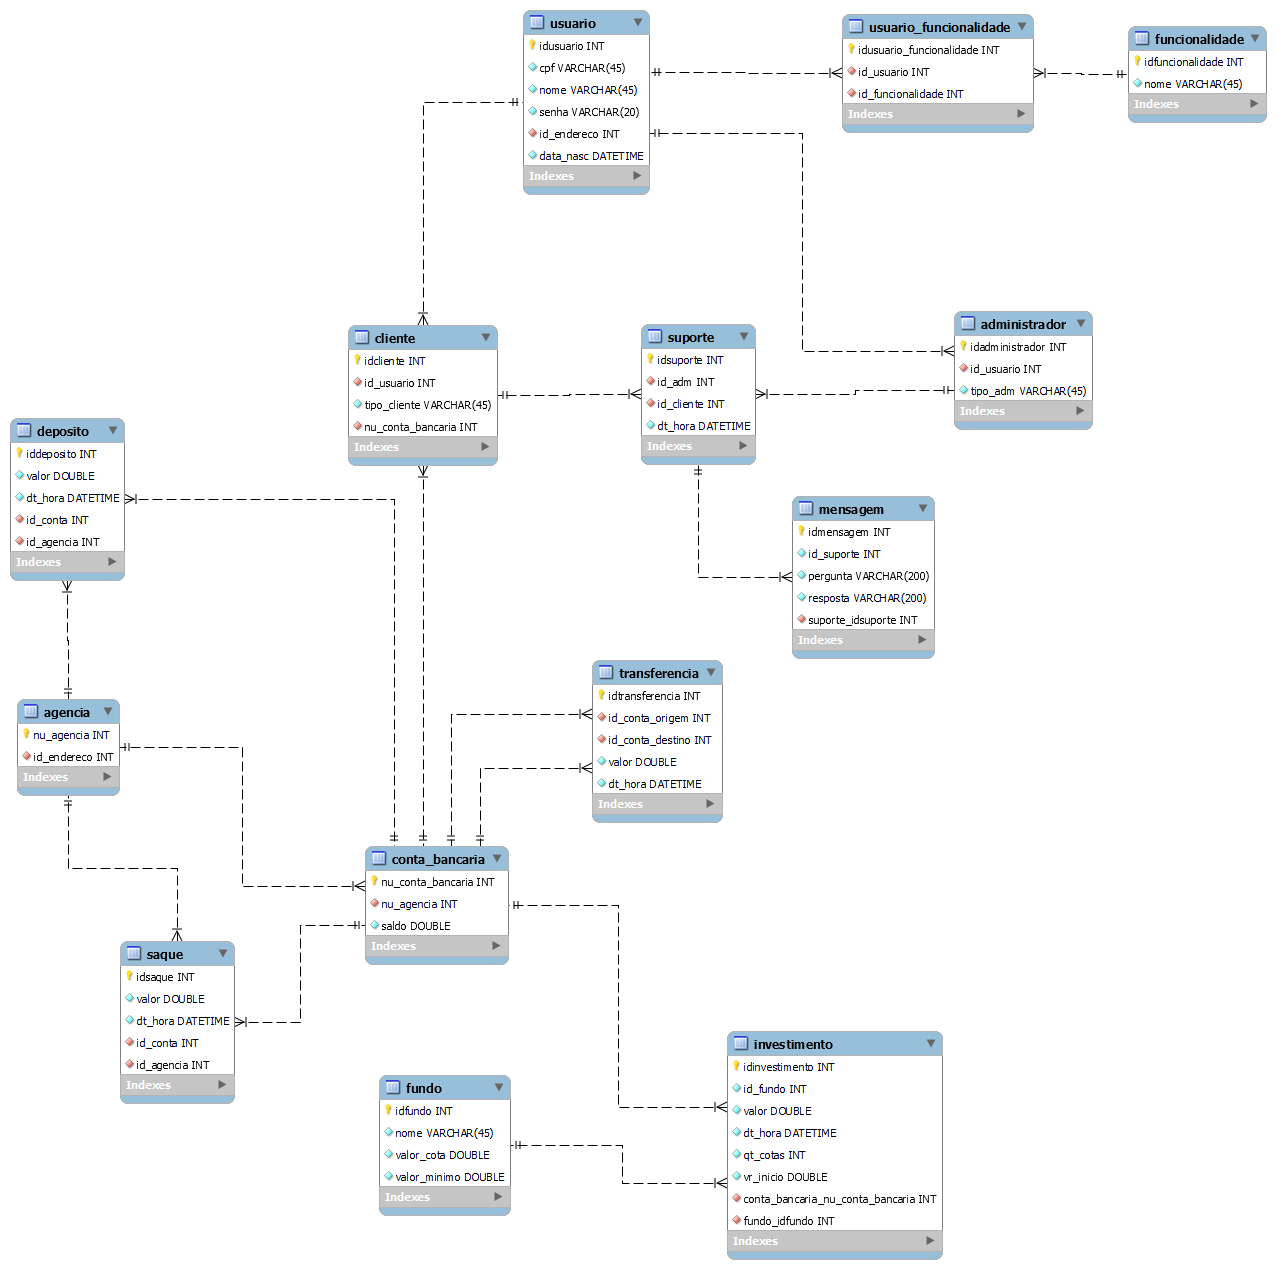
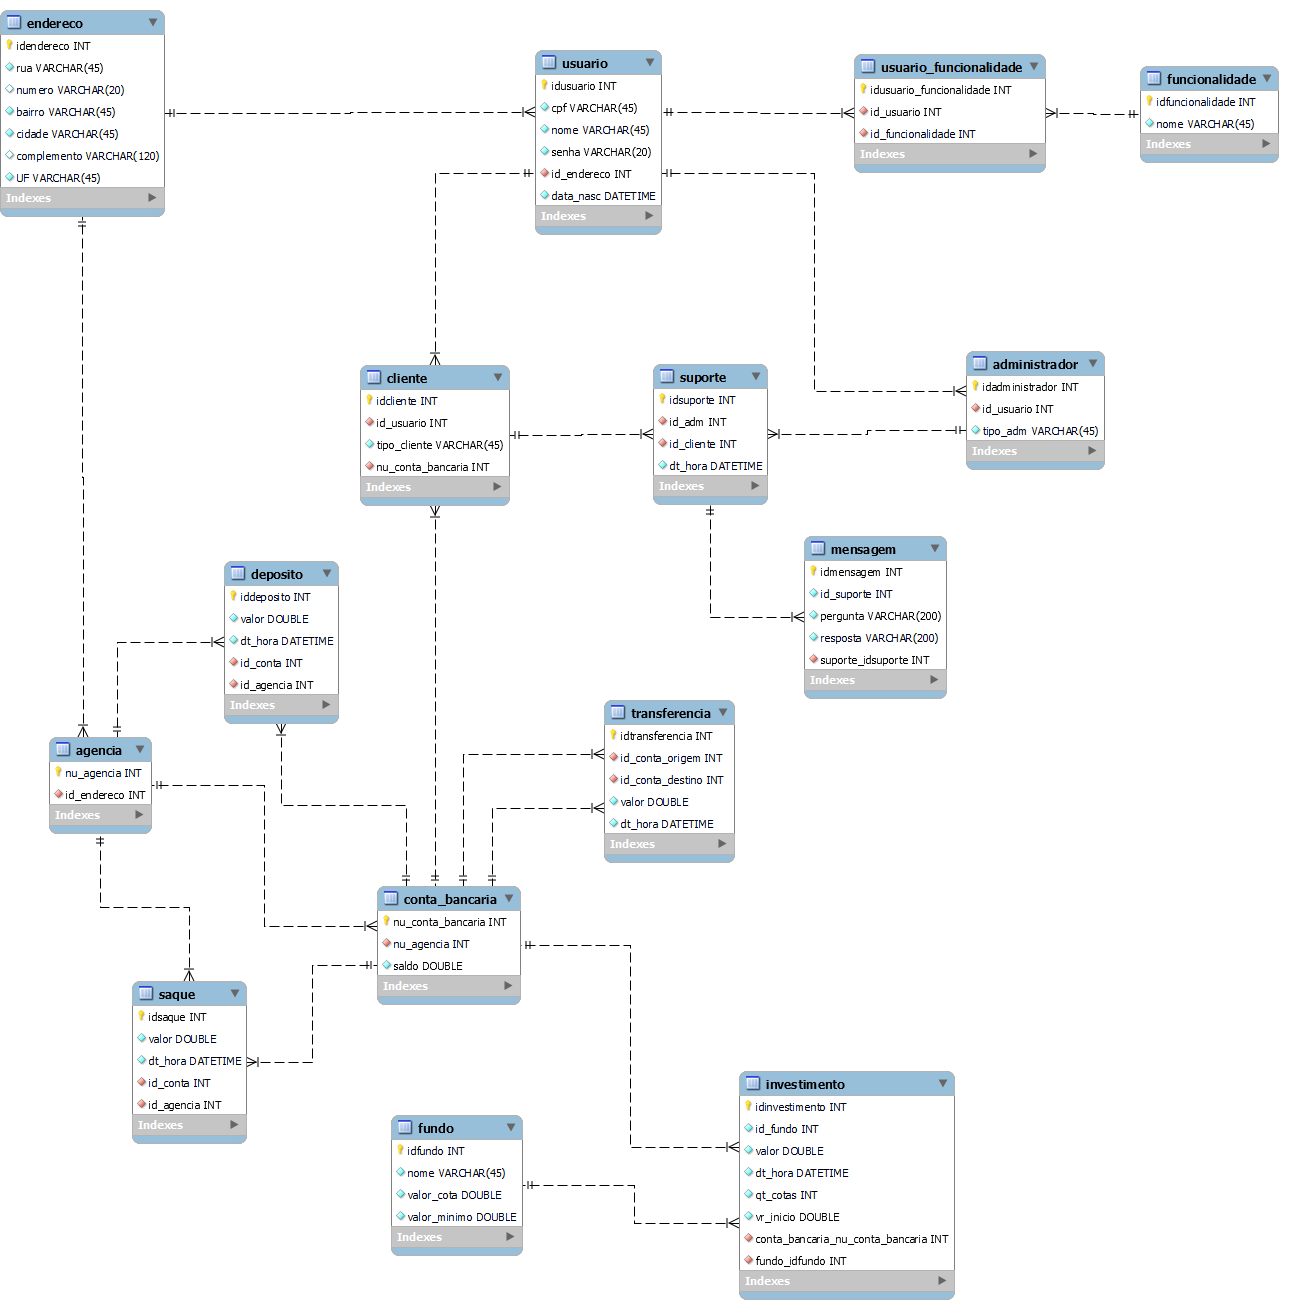
add tabelas normalizadas ao Readme, atualizacao do esquema relacional, atualização do modelo conceitual

diff --git a/README.md b/README.md
@@ -4,11 +4,10 @@ Trabalho para a disciplina de Projeto de Banco de Dados para Sistemas de Informa
 
 
 ## O Projeto
-Um banco de dados de um sistema bancário...
-
+Um banco de dados de um sistema bancário
 
 ## Exigências
-- [ ] O modelo conceitual
+- [X] O modelo conceitual
 - [X] O esquema relacional no SGBD escolhido (mySQL)
 - [X] Cada esquema deve conter **NO MÍNIMO** 15 tabelas
 - [ ] Cada grupo deve implementar **NO MÍNIMO** 5 stored procedures/funções
@@ -27,3 +26,20 @@ Um banco de dados de um sistema bancário...
 - Giovanni Toledo
 - João Vicente Gaidzinski
 - Tamires da Hora
+
+## Tabelas Normalizadas
+1. ENDEREÇO( <u>id_endereço</u>, rua, número, bairro, cidade, complemento, UF);
+2. USUÁRIO(<u>id_usuário</u>, CPF, nome, senha, data_nascimento, id_endereço);
+3. FUNCIONALIDADE(<u>id_funcionalidade</u>, nome);
+4. USUÁRIO_FUNCIONALIDADE(<u>id_usuário</u>, <u>id_funcionalidade</u>);
+5. AGENCIA(<u>nu_agencia</u>, id_endereço);
+6. CONTA_BANCÁRIA(<u>nu_conta</u>, saldo, nu_agencia);
+7. CLIENTE(<u>id_usuário</u>, tipo_cliente, nu_conta_bancaria);
+8. ADMINISTRADOR(<u>id_usuário</u>, tipo_adm);
+9. SUPORTE(<u>id_suporte</u>,id_adm, id_usuário, dt_hora);
+10. MSG(<u>id_msg</u>, id_suporte, pergunta, resposta);
+11. TRANSFERÊNCIA(<u>id_transferência</u>, valor, dt_hora, conta_origem, conta_destino);
+12. DEPÓSITO(<u>id_depósito</u>, valor,dt_hora, nu_conta, nu_agencia);
+13. SAQUE(<u>id_saque</u>, valor, dt_hora, nu_conta, nu_agencia);
+14. FUNDO(<u>id_fundo</u>, nome, valor_cota, valor_mínimo);
+15. INVESTIMENTO(<u>id_investimento</u>, dt_hora, valor, qtd_cotas, valor_inicial, id_fundo);
